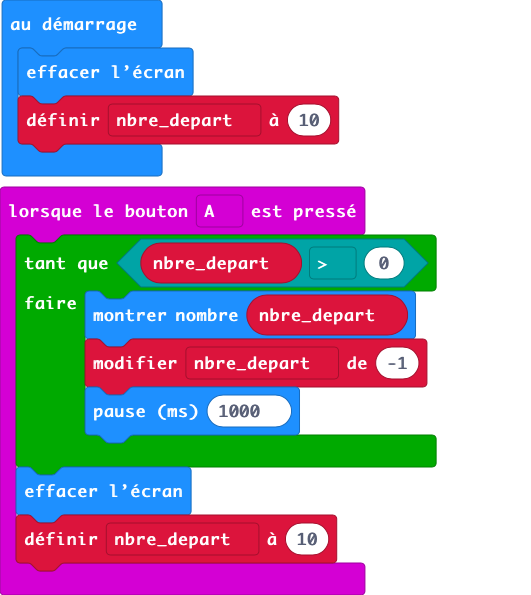
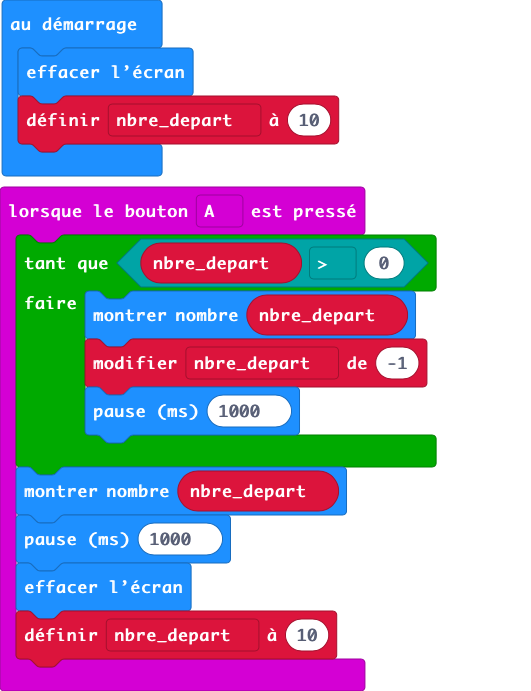
Mise à jour main.blocks, main.ts

diff --git a/main.ts b/main.ts
@@ -4,6 +4,8 @@ input.onButtonPressed(Button.A, function () {
         nbre_depart += -1
         basic.pause(1000)
     }
+    basic.showNumber(nbre_depart)
+    basic.pause(1000)
     basic.clearScreen()
     nbre_depart = 10
 })
